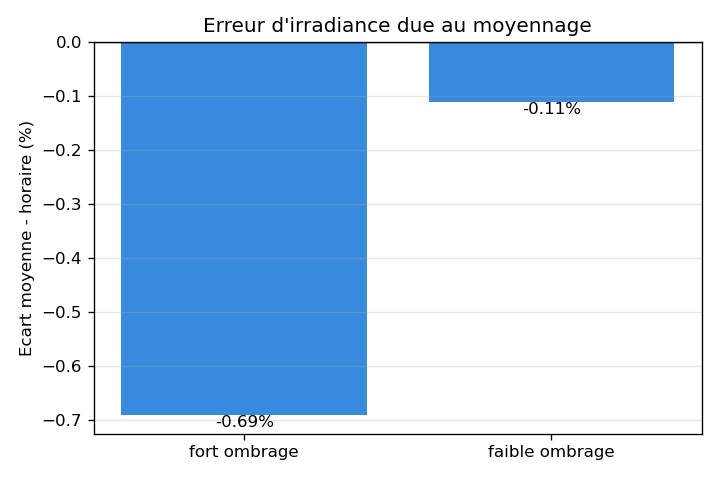
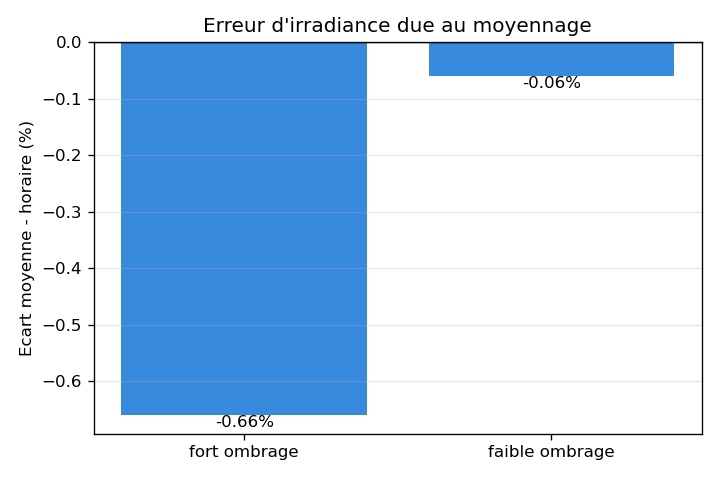
fin des cellules meteo normalement - polygone france entiere - petits changements

diff --git a/src/irradiance/irr_calcul.py b/src/irradiance/irr_calcul.py
@@ -3,7 +3,26 @@ import pandas as pd
 
 from src.config import N_JOURS, ALPHAS, BETAS
 
-TRIM = [[0, 1, 2], [3, 4, 5], [6, 7, 8], [9, 10, 11]]  
+TRIM = [[0, 1, 2], [3, 4, 5], [6, 7, 8], [9, 10, 11]]
+
+
+def interpBilin(T, a, p):
+    """Interpolation bilineaire de la table T (nα, nβ, 12, 24) aux orientations a
+    et pentes p (longueur N). L'azimut boucle (345° -> 0°) ; la pente reste dans la grille.
+
+    @return (N, 12, 24)."""
+    pas_a, pas_b = ALPHAS[1] - ALPHAS[0], BETAS[1] - BETAS[0]
+    fa = a / pas_a
+    i0 = np.floor(fa).astype(int) % len(ALPHAS)
+    i1 = (i0 + 1) % len(ALPHAS)
+    wa = (fa - np.floor(fa))[:, None, None]
+    fb = np.clip(p / pas_b, 0, len(BETAS) - 1)
+    j0 = np.floor(fb).astype(int)
+    j1 = np.minimum(j0 + 1, len(BETAS) - 1)
+    wb = (fb - j0)[:, None, None]
+    out = ((1 - wa) * (1 - wb) * T[i0, j0] + wa * (1 - wb) * T[i1, j0]
+           + (1 - wa) * wb * T[i0, j1] + wa * wb * T[i1, j1])
+    return out.astype(np.float32)                            # garder float32 (comme la table)
 
 
 def masquerHorizon(B_pix, horizon, SAZ, SEL):
@@ -28,7 +47,7 @@ def irrPixels(masque_bat, pente, aspect, incline, incline_or, plat,
               res, B, D, SAZ, SEL, horizon):
     """
     Energie annuelle (et par trimestre) de chaque pixel de toit, ombrage compris.
-    Pour chaque pixel : profil (mois,heure) de la case (orientation,pente) la plus proche
+    Pour chaque pixel : profil (mois,heure) interpole (bilineaire) en (orientation,pente)
     -> extinction du direct a l'ombre -> integration sur l'annee -> x surface reelle.
     --------
     @param[in] masque_bat            : 2D int — index gdf + 1 du batiment (0 = hors toit)
@@ -43,8 +62,6 @@ def irrPixels(masque_bat, pente, aspect, incline, incline_or, plat,
                  id, energie, energie_T1..T4 (kWh), surf (m2), pente (deg), secteur,
                  incline, incline_or (bool)
     """
-    pas_a = ALPHAS[1] - ALPHAS[0]
-    pas_b = BETAS[1] - BETAS[0]
 
     toit = incline | plat
     assert horizon.shape[0] == toit.sum(), "horizon et masque de toit desynchronises"
@@ -52,11 +69,9 @@ def irrPixels(masque_bat, pente, aspect, incline, incline_or, plat,
     p = pente[toit]
     a = aspect[toit]
 
-    # case (orientation, pente) la plus proche -> profil (mois, heure) par pixel
-    i = np.round(a / pas_a).astype(int) % len(ALPHAS)
-    j = np.clip(np.round(p / pas_b).astype(int), 0, len(BETAS) - 1)
-    B_pix = masquerHorizon(B[i, j], horizon, SAZ, SEL)      # (N,12,24) direct ombrage 
-    D_pix = D[i, j]                                         # (N,12,24) diffus
+    # interpolation bilineaire (orientation, pente) -> profil (mois, heure) par pixel
+    B_pix = masquerHorizon(interpBilin(B, a, p), horizon, SAZ, SEL)
+    D_pix = interpBilin(D, a, p)
 
     surf   = res**2 / np.cos(np.radians(p))                
     e_mois = ((B_pix + D_pix) * N_JOURS[None, :, None]).sum(axis=2) / 1000.0   # (N,12) kWh/m2

diff --git a/src/debug/comparaison.py b/src/debug/comparaison.py
@@ -30,7 +30,7 @@ import matplotlib
 matplotlib.use("Agg")               # pas d'affichage, on sauvegarde des PNG
 import matplotlib.pyplot as plt
 
-from src.irradiance.meteo.irr_fct import telecharger, transpAgr
+from src.irradiance.meteo.grille_fct import telecharger, transpAgr
 
 # ----------------------------------------------------------------------------
 # Reglages
@@ -195,9 +195,10 @@ def _temps_par_pixel(fn):
 
 def effet_moyennage():
     """Sur 2 scenarios (fort / faible ombrage), compare :
-       - HORAIRE (verite) : ombrage applique a chaque heure reelle ;
-       - MOYENNE (notre methode) : profil (mois, heure) puis ombrage sur la moyenne.
-    Sort 2 graphes : ecart d'irradiance, et temps de calcul aval (par pixel)."""
+       - HORAIRE : annee TYPIQUE horaire (~8760 pas, moyenne par mois/jour/heure),
+                   ombrage applique a chaque heure ;
+       - MOYENNE (notre methode) : profil (mois, heure) (288 pas), ombrage sur la moyenne.
+    Sort le graphe d'ecart + le temps de calcul aval par pixel (console / CSV)."""
     print("=== Moyennage : ecart et temps (moyenne vs horaire) ===")
     df = charger_brut(LAT_MOY, LON_MOY)
     t   = df.index
@@ -208,7 +209,8 @@ def effet_moyennage():
     extra   = pvlib.irradiance.get_extra_radiation(t)
     airmass = pvlib.atmosphere.get_relative_airmass(sp["apparent_zenith"])
     el = sp["apparent_elevation"].values
-    ny = t.year.nunique()
+    garder = ~((t.month == 2) & (t.day == 29))            # annee typique = 365 jours
+    mo, jr, hr = t.month.to_numpy()[garder], t.day.to_numpy()[garder], t.hour.to_numpy()[garder]
 
     lignes = []
     for nom, pente, azim, obst in SCENARIOS_MOY:
@@ -219,9 +221,13 @@ def effet_moyennage():
         direct = poa["poa_direct"].fillna(0).values
         diffus = (poa["poa_sky_diffuse"] + poa["poa_ground_diffuse"]).fillna(0).values
 
-        # HORAIRE : ombrage a chaque heure reelle (le diffus n'est pas ombrage, comme la pipeline)
+        # HORAIRE : annee TYPIQUE horaire (moyenne par mois/jour/heure), ombrage a chaque heure
+        an = (pd.DataFrame({"mo": mo, "d": jr, "h": hr,
+                            "dir": direct[garder], "dif": diffus[garder], "el": el[garder]})
+                .groupby(["mo", "d", "h"]).mean())
+        dir_a, dif_a, el_a = an.dir.values, an.dif.values, an.el.values
         def horaire():
-            return (np.where(el < obst, 0, direct) + diffus).sum() / 1000 / ny
+            return (np.where(el_a < obst, 0, dir_a) + dif_a).sum() / 1000
 
         # MOYENNE : profil (mois, heure) construit 1 fois, puis ombrage sur la moyenne
         prof = (pd.DataFrame({"m": t.month, "h": t.hour,

diff --git a/main.py b/main.py
@@ -1,6 +1,6 @@
 from src.acquisition.telechargement import telecharger_fichier, liste_telechargement
 from src.pipeline import traiterDalle
-from src.agregation.agregation import merger_cleabs, mergeCleabs
+from src.agregation.agregation import mergeCleabs
 from src.agregation.select import filtrer
 from src.tuile.donnees_dalle import tileBounds
 from src.acquisition.batiments import batiments
@@ -27,7 +27,8 @@ def main():
     print("1 : Commune ou Ville")
     print("2 : Département")
     print("3 : Région")
-    choix=input("Choisissez l'échelle (0,1,2 ou 3) :").strip()
+    print("4 : France")
+    choix=input("Choisissez l'échelle (0,1,2, 3 ou 4) :").strip()
 
     echelle=""
     nom_zone=""
@@ -45,13 +46,17 @@ def main():
     elif choix == "2":
         nom_zone = input("Entrez un département ou son numéro : ").strip()
         echelle="departement"
-   
+
     elif choix == "3":
         nom_zone=input("Entrez le nom d'une région: ").strip()
         echelle="region"
 
+    elif choix == "4":
+        nom_zone="France"
+        echelle="nationale"
+
     else:
-        print('Choisissez entre 0,1,2 et 3.')
+        print('Choisissez entre 0,1,2, 3 et 4.')
         return None
     
     t0 = time.time()
@@ -65,7 +70,7 @@ def main():
 
     print(f"Temps batiments : {time.time()-t0:.1f}s")
 
-    nom_zone=nom_zone.replace("'", "''").replace(" ", "_").replace(",", "") 
+    nom_zone=nom_zone.replace(" ", "_").replace(",", "")
 
     gpd.GeoDataFrame(geometry=[polygone], crs=4326).to_crs(2154).to_file(
     os.path.join(DIR_GEOJSON, f"{nom_zone}.geojson"), driver="GeoJSON")

diff --git a/src/acquisition/zone.py b/src/acquisition/zone.py
@@ -8,13 +8,24 @@ def zone(echelle, nom_zone, code_dep=None):
     """
     Resout l'emprise de la zone d'etude en un polygone WGS84.
     --------
-    @param[in] echelle  : 'adresse', 'commune', 'departement' ou 'region'
+    @param[in] echelle  : 'adresse', 'commune', 'departement', 'region' ou 'nationale'
     @param[in] nom_zone : adresse complete, ou nom du territoire
     @param[in] code_dep : code departement (seulement pour 'commune', pour lever les homonymes)
 
     @return polygone : geometrie shapely en WGS84 (box autour du point pour une adresse,
                        contour du territoire sinon) ; None si introuvable
     """
+    if echelle == "nationale":
+        params = {"SERVICE": "WFS", "VERSION": "2.0.0", "REQUEST": "GetFeature",
+                  "TYPENAME": "BDTOPO_V3:region", "OUTPUTFORMAT": "application/json",
+                  "COUNT": 100}
+        gdf = gpd.read_file(requests.get(WFS, params=params).text)
+        if gdf.empty:
+            return None
+        france = gdf.geometry.union_all()                       # (unary_union si vieille version)
+        return france    #.intersection(box(-5.5, 41.0, 10.0, 51.5))  si on veut pas l'outre mer
+    
+
     if echelle == "adresse":
         feats = requests.get("https://data.geopf.fr/geocodage/search",
                              params={"q": nom_zone, "limit": 1}).json()["features"]
@@ -22,6 +33,7 @@ def zone(echelle, nom_zone, code_dep=None):
             return None
         lon, lat = feats[0]["geometry"]["coordinates"]
         return box(lon-0.002, lat-0.002, lon+0.002, lat+0.002)   # ~1 dalle autour du point
+
 
     cql = {
         "commune":     f"nom_officiel ILIKE '{nom_zone}' AND code_insee_du_departement = '{code_dep}'",

diff --git a/src/config.py b/src/config.py
@@ -15,10 +15,10 @@ DIR_GEOJSON = os.path.normpath("data/raw/TEST/geojson")
 # construction table meteo
 URL     = "https://re.jrc.ec.europa.eu/api/v5_3/"    # PVGIS 5.3 (SARAH-3, 2005-2023)
 DOSSIER = "data/tables"                              # un fichier par cellule meteo
-PAS     = 0.05                                       # pas de la grille meteo (deg)
+PAS     = 0.10                                       # pas de la grille meteo (deg) = taille de cellule
 PAUSE   = 0.2                                        # temps entre requete pvgis
-LAT_MIN, LAT_MAX = 46.30, 46.70                      # emprise des cellules a construire
-LON_MIN, LON_MAX = 0.05,  0.50 
+# LAT_MIN, LAT_MAX = 46.30, 46.70                      # emprise des cellules a construire
+# LON_MIN, LON_MAX = 0.05,  0.50 
 
 # grille table meteo
 ALPHAS = np.arange(0, 360, 15)    # orientations testees (deg, 0=N, 90=E)
@@ -43,11 +43,3 @@ PERFORMANCE_RATIO = 0.78                                           # pertes syst
 TAUX_COUVERTURE   = 1.0                                            # part de toit couverte
 SECTEURS          = ["N","NE","E","SE","S","SO","O","NO"]          
 
-__all__ = [
-    "URL", "DOSSIER", "PAS", "PAUSE", "LAT_MIN", "LAT_MAX", "LON_MIN", "LON_MAX",
-    "ALPHAS", "BETAS",
-    "BUFFER", "MNH_MIN", "PENTE_PLAT", "PENTE_MAX", "AZ_MIN", "AZ_MAX",
-    "N_DIRECTIONS", "DIST_MAX_M",
-    "ALBEDO", "N_JOURS", "RENDEMENT_MODULE", "PERFORMANCE_RATIO",
-    "TAUX_COUVERTURE", "SECTEURS",
-]

diff --git a/src/agregation/agregation.py b/src/agregation/agregation.py
@@ -79,10 +79,14 @@ def mergeCleabs(gdf):
 
     @return GeoDataFrame : 1 ligne par cleabs (morceaux recolles)
     """
+    gdf = gdf.copy()
+    gdf["_pente_pond"] = gdf.pente_moy_incl * gdf.nb_pixels       # pour la moyenne ponderee
     agg = {c: "sum" for c in gdf.columns                          # surfaces, energies, prod, puissance, nb_pixels
-           if c.startswith(("surf_", "irr_", "prod_", "puissance_")) or c == "nb_pixels"}
-    agg.update(pente_moy_incl="mean", hauteur_pts="max",         # pente moyenne, hauteur la plus haute
+           if c.startswith(("surf_", "irr_", "prod_", "puissance_")) or c in ("nb_pixels", "_pente_pond")}
+    agg.update(hauteur_pts="max",                                 # hauteur la plus haute
                nature="first", usage_1="first", hauteur="first", # attributs BD TOPO (identiques)
                nombre_d_etages="first", geometry="first")
     out = gdf.groupby("cleabs", as_index=False).agg(agg)
+    out["pente_moy_incl"] = out._pente_pond / out.nb_pixels       # pente moyenne ponderee par pixels
+    out = out.drop(columns="_pente_pond")
     return gpd.GeoDataFrame(out, geometry="geometry", crs=gdf.crs)

diff --git a/src/tuile/donnees_dalle.py b/src/tuile/donnees_dalle.py
@@ -1,5 +1,3 @@
-import re
-
 from pyproj import Transformer
 
 
@@ -37,10 +35,6 @@ def tileBounds(mns_name):
 
     @return (x_min, y_min, x_max, y_max) en Lambert 93 (tuile 1 km x 1 km)
     """
-    match = re.search(r'_(\d{4})_(\d{4})_', mns_name)
-    if not match:
-        raise ValueError(f"Nom de fichier incorrect : {mns_name}")
-
-    x_km, y_km = int(match.group(1)), int(match.group(2))
+    x_km, y_km = nomCoord(mns_name)
     x_min, y_max = x_km * 1000, y_km * 1000
     return (x_min, y_max - 1000, x_min + 1000, y_max)

diff --git a/src/acquisition/telechargement.py b/src/acquisition/telechargement.py
@@ -1,7 +1,7 @@
 import os, time, requests
 
 
-def telecharger_fichier(url, nom_fichier, dossier_dest='data/raw/TEST', n_essais=4, pause=3):
+def telecharger_fichier(url, nom_fichier, dossier_dest, n_essais=4, pause=3):
     """
     Telecharge un fichier en streaming, avec retry + backoff.
     --------

diff --git a/src/pipeline.py b/src/pipeline.py
@@ -5,7 +5,7 @@ from src.tuile.raster import chargerDalle
 from src.tuile.donnees_dalle import nomCoord, centreWGS84
 from src.geometrie.extract_geom import extractGeom, makeMasques
 from src.geometrie.horizon import compHZ
-from src.irradiance.meteo.irr_fct import chargerTable
+from src.irradiance.meteo.grille_fct import chargerTable
 from src.irradiance.irr_calcul import irrPixels
 from src.agregation.agregation import agregerBatiment
 from src.debug import debug_pipeline as debug